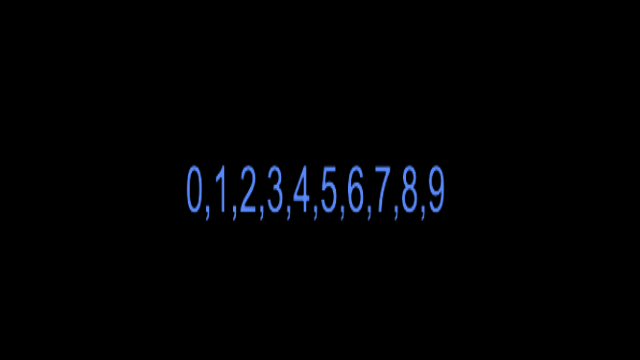
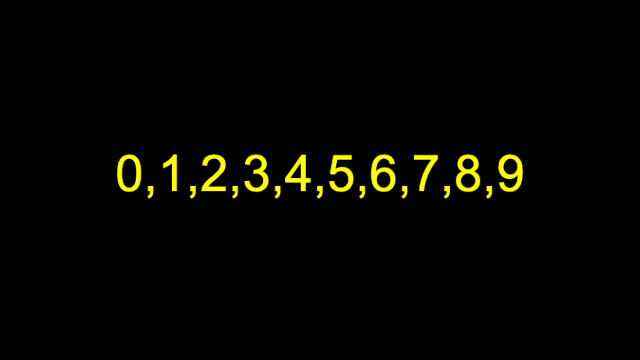
merg

Changed region(s): [[0.1562, 0.4278, 0.8438, 0.6111]]

diff --git a/src/ops/base/Ops.Gl.Textures.TextTexture_v6/Ops.Gl.Textures.TextTexture_v6.js b/src/ops/base/Ops.Gl.Textures.TextTexture_v6/Ops.Gl.Textures.TextTexture_v6.js
@@ -71,6 +71,10 @@ render.onLinkChanged = () =>
     else textureOut.setRef(tex);
 };
 
+r.onChange =
+g.onChange =
+b.onChange =
+inOpacity.onChange =
 valign.onChange =
     texSizeManBreak.onChange =
     texSizeAutoHeight.onChange =
@@ -118,7 +122,7 @@ shader.setSource(attachments.text_vert, attachments.text_frag);
 const texUni = new CGL.Uniform(shader, "t", "tex");
 const aspectUni = new CGL.Uniform(shader, "f", "aspect", 0);
 const opacityUni = new CGL.Uniform(shader, "f", "a", inOpacity);
-const uniColor = new CGL.Uniform(shader, "3f", "color", r, g, b);
+const uniColor = new CGL.Uniform(shader, "4f", "color", r, g, b, inOpacity);
 
 if (op.patch.isEditorMode()) CABLES.UI.SIMPLEWIREFRAMERECT = CABLES.UI.SIMPLEWIREFRAMERECT || new CGL.WireframeRect(cgl);
 
@@ -421,7 +425,5 @@ function updateUi()
     valign.setUiAttribs({ "greyout": texSizeMeth.get() != "Manual" });
     texSizeAutoHeight.setUiAttribs({ "greyout": texSizeMeth.get() != "Manual" });
 
-    // inPaddingY.setUiAttribs({ "greyout": !texSizeAutoHeight.get() });
-    // inPaddingYBot.setUiAttribs({ "greyout": !texSizeAutoHeight.get() });
     meshScale.setUiAttribs({ "greyout": !drawMesh.get() });
 }

diff --git a/src/ops/base/Ops.Gl.ShaderEffects.ColorArea_v5/Ops.Gl.ShaderEffects.ColorArea_v5.js b/src/ops/base/Ops.Gl.ShaderEffects.ColorArea_v5/Ops.Gl.ShaderEffects.ColorArea_v5.js
@@ -78,7 +78,7 @@ mod.addModule({
     "srcBodyFrag": attachments.colorarea_frag
 });
 
-mod.addUniform("4f", "MOD_inSizeAmountFalloffSizeX", inSize, inAmount, inFalloff, 0);
+mod.addUniform("4f", "MOD_inSizeAmountFalloffSizeX", inSize, inAmount, inFalloff, inFalloff);
 mod.addUniform("3f", "MOD_color", r, g, b);
 mod.addUniform("3f", "MOD_pos", x, y, z);
 mod.addUniform("4f", "MOD_scale", sizeX, sizeY, sizeZ, roundNess);
@@ -97,8 +97,8 @@ function updatePrio()
         // "priority": 0,
         "title": vertModTitle,
         "name": "MODULE_VERTEX_POSITION",
-        srcHeadVert,
-        srcBodyVert
+        "srcHeadVert": srcHeadVert,
+        "srcBodyVert": srcBodyVert
     };
 
     if (inPrio.get()) vmod.priority = 2;
